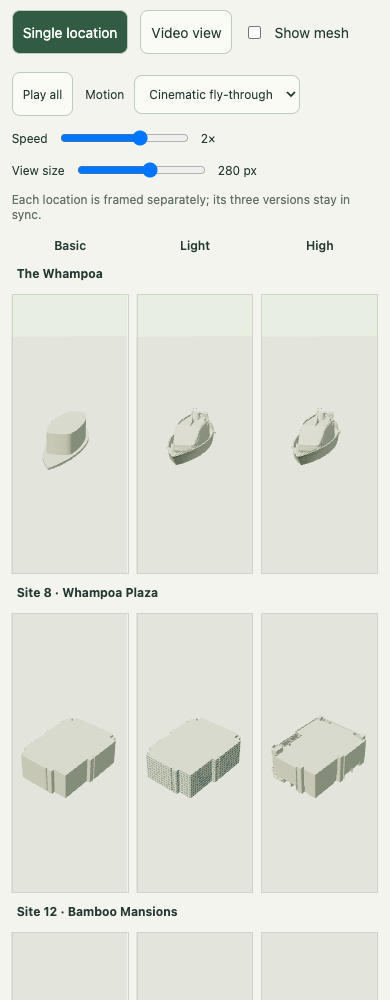
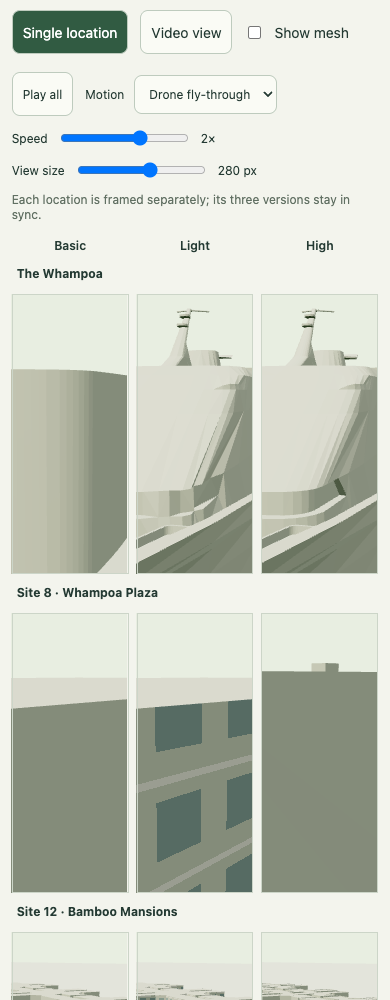
feat: add gallery hover enlargement and close drone passes (HKS-228)

diff --git a/3d-viewer/city/comparison-gallery.js b/3d-viewer/city/comparison-gallery.js
@@ -4,11 +4,14 @@ import {OrbitControls} from '../vendor/OrbitControls.js';
 // One renderer draws visible DOM cells with scissors; no per-cell WebGL contexts.
 export function createComparisonGallery(groups, assemble) {
  const host=document.createElement('section');host.id='comparison-gallery';host.hidden=true;
- host.innerHTML=`<div class="gallery-toolbar"><button id="gallery-play" aria-pressed="false">Play all</button><label>Motion <select id="gallery-motion"><option value="orbit">Orbit</option><option value="fly">Cinematic fly-through</option></select></label><label>Speed <input id="gallery-speed" type="range" min="0.25" max="3" step="0.25" value="1"><output id="gallery-speed-value">1×</output></label><label>View size <input id="gallery-size" type="range" min="90" max="420" step="10" value="150"><output id="gallery-size-value">150 px</output></label><span>Each location is framed separately; its three versions stay in sync.</span></div><div class="gallery-head"><span>Location</span><span>Basic</span><span>Light</span><span>High</span></div><div class="gallery-rows"></div>`;
+ host.innerHTML=`<div class="gallery-toolbar"><button id="gallery-play" aria-pressed="false">Play all</button><label>Motion <select id="gallery-motion"><option value="orbit">Orbit</option><option value="fly" selected>Drone fly-through</option></select></label><label>Speed <input id="gallery-speed" type="range" min="0.25" max="3" step="0.25" value="1"><output id="gallery-speed-value">1×</output></label><label>View size <input id="gallery-size" type="range" min="90" max="420" step="10" value="150"><output id="gallery-size-value">150 px</output></label><span>Each location is framed separately; its three versions stay in sync.</span></div><div class="gallery-head"><span>Location</span><span>Basic</span><span>Light</span><span>High</span></div><div class="gallery-rows"></div>`;
  document.getElementById('views').after(host);
  const renderer=new T.WebGLRenderer({antialias:true,alpha:true});renderer.setPixelRatio(Math.min(devicePixelRatio,1.5));renderer.outputColorSpace=T.SRGBColorSpace;renderer.toneMapping=T.ACESFilmicToneMapping;renderer.toneMappingExposure=1;renderer.domElement.className='gallery-canvas';renderer.domElement.hidden=true;
- const rows=[];let active=false,playing=false,speed=1,motion='orbit',last=0,dirty=true,elapsed=0,syncing=false;
+ const rows=[];let active=false,playing=false,speed=1,motion='fly',last=0,dirty=true,elapsed=0,syncing=false;
  const play=host.querySelector('#gallery-play');
+ const hoverCapable=matchMedia('(hover: hover) and (pointer: fine)');
+ let hoveredCell=null,hoverUntil=0;
+ function setHovered(cell){hoveredCell?.classList.remove('is-hovered');hoveredCell=cell;cell?.classList.add('is-hovered');hoverUntil=performance.now()+240;dirty=true;}
  function setPlaying(value){playing=value;last=0;play.textContent=value?'Pause all':'Play all';play.setAttribute('aria-pressed',String(value));}
  for(const [i,group]of groups.entries()){
   const assembly=assemble(group),row=document.createElement('article');row.className='gallery-row';const name=document.createElement('h3');name.textContent=group.name;row.append(name);host.querySelector('.gallery-rows').append(row);
@@ -16,6 +19,8 @@ export function createComparisonGallery(groups, assemble) {
   const target=bounds.getCenter(new T.Vector3()),camera=new T.PerspectiveCamera(36,1,.1,12000),entry={id:group.id,camera,bounds,target,cells:[],angle:i*.41,phase:i*.41};rows.push(entry);
   for(let variant=0;variant<3;variant++){
    const cell=document.createElement('div');cell.className='gallery-cell';cell.setAttribute('aria-label',group.name+' — '+['Basic','Light','High'][variant]);row.append(cell);
+   cell.addEventListener('pointerenter',()=>{if(hoverCapable.matches)setHovered(cell);});
+   cell.addEventListener('pointerleave',()=>{if(hoveredCell===cell)setHovered(null);});
    const scene=new T.Scene();scene.background=new T.Color(0xe8eee1);scene.add(new T.HemisphereLight(0xffffff,0x596b50,2));const sun=new T.DirectionalLight(0xfff5de,3);sun.position.set(-120,210,110);scene.add(sun);
    const floor=new T.Mesh(new T.PlaneGeometry(4000,4000),new T.MeshStandardMaterial({color:0xdce5d3,roughness:1}));floor.rotation.x=-Math.PI/2;scene.add(floor);if(assembly.models[variant])scene.add(assembly.models[variant]);else cell.textContent='Pending';
    const controls=new OrbitControls(camera,cell);controls.enableDamping=false;controls.minDistance=5;controls.maxDistance=5000;controls.target.copy(target);controls.maxPolarAngle=Math.PI*.48;
@@ -27,28 +32,35 @@ export function createComparisonGallery(groups, assemble) {
   const camera=row.camera;camera.aspect=rect.width/rect.height;camera.updateProjectionMatrix();
   const size=row.bounds.getSize(new T.Vector3());let theta=row.angle,tilt=.7,zoom=1,target=row.target.clone(),shot='Orbit';
   if(motion==='fly'){
-   // A continuous 32-second approach, facade rise, rooftop pass and wide reveal.
+   // A continuous 32-second drone approach, close facade rise, roof pass and reveal.
+   // Close shots deliberately crop the model; only the reveal fits the full assembly.
    // Phase offsets give each location its own flight; all variants share the camera.
-   const keys=[[-1.15,.32,1.5,.35],[-.3,.18,.88,.3],[.65,1.5,.92,.7],[2.1,1.15,1.05,.55],[4.25,.5,1.6,.4],[Math.PI*2-1.15,.32,1.5,.35]];
+   const keys=[[-1.15,.18,.78,.2],[-.3,.08,.32,.32],[.65,.32,.36,.78],[2.1,1.3,.45,.84],[4.25,.5,1.35,.45],[Math.PI*2-1.15,.18,.78,.2]];
    const phase=((elapsed/32+row.phase/7)%1)*5,index=Math.floor(phase),u=phase-index,t=u*u*(3-2*u),a=keys[index],b=keys[index+1],mix=k=>a[k]+(b[k]-a[k])*t;
    theta=mix(0);tilt=mix(1);zoom=mix(2);target.y=row.bounds.min.y+size.y*mix(3);shot=['Approach','Facade rise','Rooftop pass','Wide reveal','Return'][index];
   }
   const direction=new T.Vector3(Math.sin(theta),tilt,Math.cos(theta)).normalize(),right=new T.Vector3().crossVectors(new T.Vector3(0,1,0),direction).normalize(),up=new T.Vector3().crossVectors(direction,right),tanV=Math.tan(Math.PI/10),tanH=tanV*camera.aspect;let distance=10;
   for(const x of [row.bounds.min.x,row.bounds.max.x])for(const y of [row.bounds.min.y,row.bounds.max.y])for(const z of [row.bounds.min.z,row.bounds.max.z]){const p=new T.Vector3(x,y,z).sub(target),depth=p.dot(direction);distance=Math.max(distance,depth+Math.abs(p.dot(right))*1.15/tanH,depth+Math.abs(p.dot(up))*1.15/tanV);}
-  distance*=zoom;
+  if(motion==='fly'){const span=Math.max(size.x,size.z,size.y*.65,15),blend=T.MathUtils.smoothstep(zoom,.6,1.35);distance=T.MathUtils.lerp(span*zoom,distance*zoom,blend);}else distance*=zoom;
   // Keep the camera outside the actual assembly bounds even on close passes.
   const clearance=Math.max(4,Math.min(size.x,size.z)*.08),safe=row.bounds.clone().expandByScalar(clearance);let position=target.clone().addScaledVector(direction,distance);
-  for(let i=0;i<12&&safe.containsPoint(position);i++){distance*=1.2;position=target.clone().addScaledVector(direction,distance);}
+  if(safe.containsPoint(position)){
+   let exit=Infinity;for(const axis of ['x','y','z'])if(Math.abs(direction[axis])>1e-6){const edge=direction[axis]>0?safe.max[axis]:safe.min[axis];exit=Math.min(exit,(edge-target[axis])/direction[axis]);}
+   distance=Math.max(distance,exit+.1);position=target.clone().addScaledVector(direction,distance);
+  }
   row.shot=shot;
   syncing=true;camera.position.copy(position);for(const c of row.cells)c.controls.target.copy(target);row.cells[0].controls.update();syncing=false;
  }
  function resize(){if(!active)return;renderer.setSize(innerWidth,innerHeight);for(const row of rows)fit(row);dirty=true;}
  function render(){
   renderer.setScissorTest(false);renderer.setClearColor(0,0);renderer.clear();renderer.setScissorTest(true);let drawn=0;
-  for(const row of rows)for(const {cell,scene}of row.cells){const r=cell.getBoundingClientRect();if(r.bottom<=0||r.top>=innerHeight||r.right<=0||r.left>=innerWidth)continue;const left=Math.max(0,r.left),bottom=Math.min(innerHeight,r.bottom),right=Math.min(innerWidth,r.right),top=Math.max(0,r.top);renderer.setViewport(r.left,innerHeight-r.bottom,r.width,r.height);renderer.setScissor(left,innerHeight-bottom,right-left,bottom-top);renderer.render(scene,row.camera);drawn++;}
+  const cells=rows.flatMap(row=>row.cells.map(c=>({...c,camera:row.camera})));
+  // Draw the enlarged cell last so neighbouring viewports cannot paint over it.
+  cells.sort((a,b)=>Number(a.cell===hoveredCell)-Number(b.cell===hoveredCell));
+  for(const {cell,scene,camera}of cells){const r=cell.getBoundingClientRect();if(r.bottom<=0||r.top>=innerHeight||r.right<=0||r.left>=innerWidth)continue;const left=Math.max(0,r.left),bottom=Math.min(innerHeight,r.bottom),right=Math.min(innerWidth,r.right),top=Math.max(0,r.top);renderer.setViewport(r.left,innerHeight-r.bottom,r.width,r.height);renderer.setScissor(left,innerHeight-bottom,right-left,bottom-top);renderer.render(scene,camera);drawn++;}
   window.__gallery={active,playing,speed,motion,drawn,locations:rows.map(r=>({id:r.id,camera:r.camera.position.toArray(),target:r.cells[0].controls.target.toArray(),variants:3,shot:r.shot})),rendererCount:1};
  }
- function frame(now){if(active){if(playing&&last){const dt=Math.min((now-last)/1000,.1)*speed;elapsed+=dt;for(const row of rows){row.angle+=dt*.18;fit(row);}dirty=true;}if(dirty){render();dirty=false;}}last=now;requestAnimationFrame(frame);}requestAnimationFrame(frame);
+ function frame(now){if(active){if(playing&&last){const dt=Math.min((now-last)/1000,.1)*speed;elapsed+=dt;for(const row of rows){row.angle+=dt*.18;fit(row);}dirty=true;}if(dirty||now<hoverUntil){render();dirty=false;}}last=now;requestAnimationFrame(frame);}requestAnimationFrame(frame);
  play.onclick=()=>{setPlaying(!playing);dirty=true;};host.querySelector('#gallery-motion').onchange=e=>{motion=e.target.value;for(const row of rows)fit(row);dirty=true;};
  host.querySelector('#gallery-speed').oninput=e=>{speed=Number(e.target.value);host.querySelector('#gallery-speed-value').textContent=speed+'×';dirty=true;};
  const sizeInput=host.querySelector('#gallery-size');
@@ -60,7 +72,7 @@ export function createComparisonGallery(groups, assemble) {
  return {setActive(value){
   active=value;host.hidden=!value;document.body.classList.toggle('gallery-active',value);
   if(value){document.body.append(renderer.domElement);renderer.domElement.hidden=false;resize();}
-  else{setPlaying(false);renderer.setScissorTest(false);renderer.setClearColor(0,0);renderer.clear();renderer.domElement.hidden=true;renderer.domElement.remove();}
+  else{setHovered(null);setPlaying(false);renderer.setScissorTest(false);renderer.setClearColor(0,0);renderer.clear();renderer.domElement.hidden=true;renderer.domElement.remove();}
   if(window.__gallery){window.__gallery.active=value;window.__gallery.playing=playing;window.__gallery.drawn=value?window.__gallery.drawn:0;}dirty=true;
  },render(){dirty=true;},get active(){return active;}};
 }

diff --git a/3d-viewer/whampoa-comparison.html b/3d-viewer/whampoa-comparison.html
@@ -1,7 +1,7 @@
-<!doctype html><html lang="en"><meta charset="utf-8"><meta name="viewport" content="width=device-width,initial-scale=1"><title>Hong Kong · Model study</title><link rel="stylesheet" href="city/whampoa-comparison.css?v=20260910-startup1"><body><header><div><p class="eyebrow">LIVING HONG KONG / MODEL STUDY 01</p><h1>A little detail. A different city.</h1><p>Compare the same place at three levels of detail. Drag any view to orbit all three.</p></div><a href="city.html?district=central">Back to the city ↗</a></header><nav aria-label="Comparison controls"><label>Location <select id="location" aria-label="Location"></select></label><button id="gallery-toggle" aria-pressed="false">Gallery view</button><button id="spin" aria-pressed="false">Start spin</button><button id="presentation" aria-pressed="false">Video view</button><button id="reset">Reset view</button><label class="check"><input type="checkbox" id="wire"> Show mesh</label></nav><section id="load-status" role="status"><span id="load-message">Loading model comparison…</span> <button id="load-retry" hidden>Retry loading</button></section><main id="views"><article><div class="card-title"><span>01 / BASELINE</span><h2>No enhancement</h2><p>Government footprint and recorded height</p></div><div class="viewport" id="basic"></div><p class="stats" id="basic-stats">Loading…</p></article><article class="featured"><div class="card-title"><span>02 / LIGHT TRIAL</span><h2>Lightweight</h2><p id="light-description">Reduced mesh · same source assembly</p></div><div class="viewport" id="light"></div><p class="stats" id="light-stats">Loading…</p></article><article><div class="card-title"><span>03 / DETAIL REFERENCE</span><h2>High detail</h2><p id="high-description">Existing government geometry · reused</p></div><div class="viewport" id="high"></div><p class="stats" id="high-stats">Loading…</p></article></main><section class="notes"><p id="summary" role="status">Preparing comparison…</p><p id="qualification"></p><details><summary>How this comparison is made</summary><p>Identical scale, camera, ground and lighting. These are isolated model studies, not the live neighbourhood. The ship’s light mesh uses a one-metre clustering grid while protecting its upper silhouette. Site façades use an illustrative shared shader, without changing the source footprint or height. No surveyed window, paint or roof-detail accuracy is claimed.</p><p>Sizes are compressed model payloads, excluding shared viewer code. Site façade styling adds shared code, not a separate texture download. The existing high ship is not a new high-effort AI generation. Reviewed Site 8 and Site 12 geometry is also used in the main map. Lightweight variants remain comparison studies. Overview positions are arranged for comparison, not geographic placement.</p><a href="https://www.rvd.gov.hk/doc/en/urban.pdf">Government building-name reference ↗</a></details></section><script type="module">
+<!doctype html><html lang="en"><meta charset="utf-8"><meta name="viewport" content="width=device-width,initial-scale=1"><title>Hong Kong · Model study</title><link rel="stylesheet" href="city/whampoa-comparison.css?v=20260910-hover1"><body><header><div><p class="eyebrow">LIVING HONG KONG / MODEL STUDY 01</p><h1>A little detail. A different city.</h1><p>Compare the same place at three levels of detail. Drag any view to orbit all three.</p></div><a href="city.html?district=central">Back to the city ↗</a></header><nav aria-label="Comparison controls"><label>Location <select id="location" aria-label="Location"></select></label><button id="gallery-toggle" aria-pressed="false">Gallery view</button><button id="spin" aria-pressed="false">Start spin</button><button id="presentation" aria-pressed="false">Video view</button><button id="reset">Reset view</button><label class="check"><input type="checkbox" id="wire"> Show mesh</label></nav><section id="load-status" role="status"><span id="load-message">Loading model comparison…</span> <button id="load-retry" hidden>Retry loading</button></section><main id="views"><article><div class="card-title"><span>01 / BASELINE</span><h2>No enhancement</h2><p>Government footprint and recorded height</p></div><div class="viewport" id="basic"></div><p class="stats" id="basic-stats">Loading…</p></article><article class="featured"><div class="card-title"><span>02 / LIGHT TRIAL</span><h2>Lightweight</h2><p id="light-description">Reduced mesh · same source assembly</p></div><div class="viewport" id="light"></div><p class="stats" id="light-stats">Loading…</p></article><article><div class="card-title"><span>03 / DETAIL REFERENCE</span><h2>High detail</h2><p id="high-description">Existing government geometry · reused</p></div><div class="viewport" id="high"></div><p class="stats" id="high-stats">Loading…</p></article></main><section class="notes"><p id="summary" role="status">Preparing comparison…</p><p id="qualification"></p><details><summary>How this comparison is made</summary><p>Identical scale, camera, ground and lighting. These are isolated model studies, not the live neighbourhood. The ship’s light mesh uses a one-metre clustering grid while protecting its upper silhouette. Site façades use an illustrative shared shader, without changing the source footprint or height. No surveyed window, paint or roof-detail accuracy is claimed.</p><p>Sizes are compressed model payloads, excluding shared viewer code. Site façade styling adds shared code, not a separate texture download. The existing high ship is not a new high-effort AI generation. Reviewed Site 8 and Site 12 geometry is also used in the main map. Lightweight variants remain comparison studies. Overview positions are arranged for comparison, not geographic placement.</p><a href="https://www.rvd.gov.hk/doc/en/urban.pdf">Government building-name reference ↗</a></details></section><script type="module">
 const status=document.getElementById('load-status'),message=document.getElementById('load-message'),retry=document.getElementById('load-retry');
 window.comparisonLoadStatus=(text,failed=false)=>{status.hidden=false;message.textContent=text;retry.hidden=!failed;status.setAttribute('role',failed?'alert':'status');};
 retry.onclick=()=>{const url=new URL(location.href);url.searchParams.set('reload',Date.now());location.replace(url);};
-try{await import('./city/whampoa-comparison.js?v=20260910-startup1');if(!window.__trial.loadErrors.length)status.hidden=true;}
+try{await import('./city/whampoa-comparison.js?v=20260910-hover1');if(!window.__trial.loadErrors.length)status.hidden=true;}
 catch(error){console.error('Comparison startup failed:',error);window.comparisonLoadStatus('Unable to load comparison: '+error.message,true);}
 </script></body></html>

diff --git a/3d-viewer/city/whampoa-comparison.css b/3d-viewer/city/whampoa-comparison.css
@@ -27,3 +27,14 @@ button[aria-pressed=true]{background:#315b42;color:#fff}button{min-height:44px;c
 body:not(.gallery-active)>.gallery-canvas{display:none!important}
 
 #load-status{margin:0 3vw 18px;padding:12px 16px;border:1px solid #becbbe;border-radius:8px;line-height:1.6}#load-status[hidden]{display:none}#load-status[role=alert]{background:#fff3df}#load-retry{margin-left:12px}
+
+/* Uniform hover enlargement preserves framing and does not move other rows. */
+@media (hover:hover) and (pointer:fine){
+ .gallery-cell{transition:transform 180ms ease,box-shadow 180ms ease;transform-origin:center;}
+ .gallery-cell:nth-child(2){transform-origin:left center;}
+ .gallery-cell:last-child{transform-origin:right center;}
+ .gallery-cell.is-hovered{transform:scale(1.16);z-index:5;box-shadow:0 0 0 2px #617c56,0 10px 28px #263d2933;}
+}
+@media (prefers-reduced-motion:reduce){.gallery-cell{transition:none;}}
+
+@media (hover:hover) and (pointer:fine){#comparison-gallery:has(.is-hovered) .gallery-cell:not(.is-hovered){border-color:transparent;}}

diff --git a/3d-viewer/city/whampoa-comparison.js b/3d-viewer/city/whampoa-comparison.js
@@ -1,4 +1,4 @@
-import {createComparisonGallery} from './comparison-gallery.js?v=20260910-startup1';
+import {createComparisonGallery} from './comparison-gallery.js?v=20260910-hover1';
 import * as T from '../vendor/three.module.js';
 import {OrbitControls} from '../vendor/OrbitControls.js';
 import {GLTFLoader} from '../vendor/GLTFLoader.js';

diff --git a/docs/astra-city/LINEAR-TRACKING.md b/docs/astra-city/LINEAR-TRACKING.md
@@ -348,3 +348,7 @@ Gallery exit now clears and detaches its shared canvas; repeated exit/re-entry a
 Fresh browser checks initially passed; the user's exact browser failure was not directly observed. Reproduced an old-entry-script/new-HTML mismatch throwing “Cannot set properties of null (setting onclick)”. Versioned comparison JS, gallery import and CSS now avoid that stale unversioned entry. Startup errors are visible with Retry; individual failed native variants preserve the baseline, procedural fallback and other locations instead of aborting the whole page. Source counts/payload stats exclude failed high variants. No model/Neon changes.
 
 `verify-startup.mjs` covers mismatched script, normal versioned startup, simulated503model failures, gallery fallback, retry recovery and visible manifest failure. `verify.mjs` desktop/mobile exit/size/cinematic checks also pass. Evidence: `comparison-gallery/fixes/startup-verification.json`. Ready for William to refresh and review in his browser; its original error remains unconfirmed.
+
+## 10 September 2026 — HKS-228 hover inspection and drone close-ups
+
+Gallery cells enlarge16%on mouse hover, restore smoothly on leave and redraw while paused without allocating another renderer. Touch remains unchanged; reduced-motion removes the transition. Play all defaults to Drone fly-through: close facade passes deliberately crop the model, rise towards roofs and blend back to a wide reveal. Camera paths stay synchronised across each location's three variants; analytic bounding-box clearance avoids stepping through buildings. Orbit and speed controls remain available. Browser checks cover hover/restore, paused redraw, touch, desktop/mobile flight, pause and repeated gallery exit; screenshots under comparison-gallery/fixes inspected. No model assets or Neon state changed. Ready for William's visual review.
